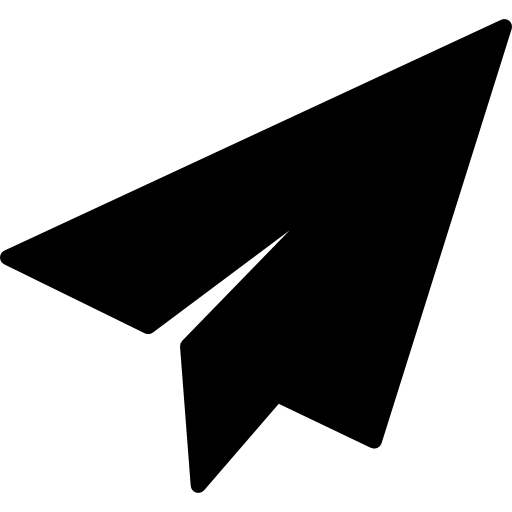
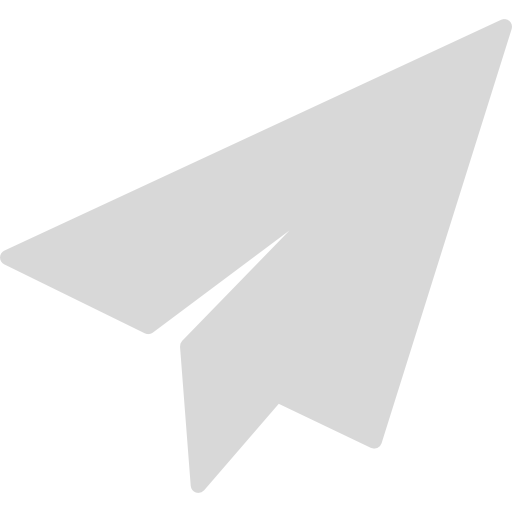
채팅 로그인한 회원만 이용가능하게 만들었습니다

diff --git a/src/main/resources/static/js/chat/chat.js b/src/main/resources/static/js/chat/chat.js
@@ -1,30 +1,41 @@
 document.addEventListener("DOMContentLoaded", function () {
 
+    let stompClient = null;
+    const clientId = Math.random().toString(36).substr(2, 9); // 랜덤한 고유 식별자 생성
+    const sender = document.getElementById("s-chat-sender").value;
+    const textarea = document.querySelector("#s-chat-input");
+    const image = document.querySelector("#s-chat-input-img");
+    image.src = "/sc/free-icon-sent-mail-71746.png";
+
     /** 모달 기능 */
      const modalButton = document.getElementById("s-chat-connect-button");
      const modal = document.querySelector(".s-chatbox");
+     const closeButton = document.querySelector(".s-chat-close");
      let isClicked = false; // 버튼 클릭 여부
-
 
      // 처음에 모달 컨텐츠를 숨김
      modal.style.display = "none";
 
      // 모달 버튼 클릭 시 모달 창 토글
      modalButton.addEventListener("click", function () {
-         modal.style.display = modal.style.display === "flex" ? "none" : "flex"; //
-         isClicked = !isClicked;
-         if (isClicked) {
-             modalButton.style.transform = "scale(0.9)";
-         } else {
-             modalButton.style.transform = "scale(1.0)";
+         if(sender === ''){
+         alert("채팅기능은 로그인하셔야 이용 하실 수 있습니다");
+         window.location.href='/member/qLoginForm';
+         }else{
+         modal.style.display =  "flex";
+         modalButton.style.transform = "scale(0)";
+         //버튼을 누르면 웹통신 시작
+         connect();
          }
      });
 
-    let stompClient = null;
-    const clientId = Math.random().toString(36).substr(2, 9); // 랜덤한 고유 식별자 생성
+     // x 버튼 클릭시 모달 닫기
+     closeButton.addEventListener("click", function () {
+         modal.style.display = "none";
+         modalButton.style.transform = "scale(1)";
+     });
 
-    connect();
-
+    //웹소켓 연결 (통신 코드)
     function connect() {
         const socket = new SockJS('/chat');
         stompClient = Stomp.over(socket);
@@ -36,13 +47,7 @@ document.addEventListener("DOMContentLoaded", function () {
             });
             stompClient.subscribe('/topic/messages', function (messages) {
                 const message = JSON.parse(messages.body);
-
-                //if문으로 내메세지인지 상대방메세지인지 가려낸다(clientId값으로)
-                if (message.clientId === clientId) {
-                    showMessages(message);
-                } else {
-                    showOtherMessages(message)
-                }
+                showMessages(message);
             });
         });
     }
@@ -50,28 +55,30 @@ document.addEventListener("DOMContentLoaded", function () {
     //메세지 서버로 보내기
     function sendMessage() {
         stompClient.send("/app/chatting", {}, JSON.stringify({
-            'sender': document.querySelector("#s-sender").value,
-            'content': document.querySelector("#s-sendText").value,
+            'sender': sender,
+            'content': document.querySelector("#s-chat-input").value,
             'clientId': clientId
         }));
     }
 
     //전송 버튼을 누르면 메세지가 보내지는 기능
-    document.querySelector("#s-submitBtn").addEventListener("click", function () {
+    document.querySelector("#s-chat-input-img").addEventListener("click", function () {
         if (stompClient) {
             sendMessage();
-            document.querySelector("#s-sendText").value = '';
+            document.querySelector("#s-chat-input").value = '';
+            textarea.style.height = '62px';
         } else {
             console.log("Stomp client not initialized yet.");
         }
     });
 
     //textarea에서 엔터키를 쳤을때 메세지가 보내지는 기능
-    document.querySelector('#s-sendText').addEventListener('keyup', (e) => {
+    document.querySelector('#s-chat-input').addEventListener('keyup', (e) => {
         if (e.keyCode === 13) {
             if (stompClient) {
                 sendMessage();
-                document.querySelector("#s-sendText").value = '';
+                document.querySelector("#s-chat-input").value = '';
+                textarea.style.height = '62px';
             } else {
                 console.log("Stomp client not initialized yet.");
             }
@@ -81,59 +88,71 @@ document.addEventListener("DOMContentLoaded", function () {
 
     //내 메세지 보기 (HTML에 태그랑 클래스이름 넣어주고 내용 넣어주는 코드)
     function showMessages(message) {
-        const chatTextBox = document.querySelector(".s-chatTextBox");
+        const chatTextBox = document.querySelector(".s-chat-textbox");
 
         const messageBlock = document.createElement("div");
-        messageBlock.className = "s-my-profile";
+        messageBlock.className = "s-chat-message";
 
-        const nicknameAndText = document.createElement("div");
-        nicknameAndText.className = "s-nicknameAndText s-my-message";
+        const messageInfo = document.createElement("p");
+        messageInfo.className = "s-chat-info";
 
-        const myText = document.createElement("div");
-        myText.className = "s-my-text";
-        myText.textContent = message.content;
+        const messageNickname = document.createElement("span");
 
-        nicknameAndText.appendChild(myText);
-        messageBlock.appendChild(nicknameAndText);
+        //이메일에서 아이디값만 추출
+        messageNickname.textContent = sender.split("@")[0];
+        const messageTime = document.createElement("span");
+
+        messageNickname.className = "s-chat-nickname";
+
+        messageTime.className = "s-chat-time";
+        messageTime.textContent = sendMessageCurrentTime();
+
+        const messageText = document.createElement("p");
+        messageText.className = "s-chat-text";
+        messageText.textContent = message.content;
+
+        messageInfo.appendChild(messageNickname);
+        messageInfo.appendChild(messageTime);
+
+        messageBlock.appendChild(messageInfo);
+        messageBlock.appendChild(messageText);
 
         chatTextBox.appendChild(messageBlock);
     }
 
-    //상대방 메세지 보기 (HTML에 태그랑 클래스이름 넣어주고 내용 넣어주는 코드)
-    function showOtherMessages(message) {
-        const chatTextBox = document.querySelector(".s-chatTextBox");
+//    //현재 접속자 몇명인지 HTML에 작성해주는 코드
+//    function updateConnectedClientsUI(count) {
+//            const connectedClientsElement = document.getElementById("s-connectedClients");
+//            connectedClientsElement.textContent = count;
+//    }
 
-        const messageBlock = document.createElement("div");
-        messageBlock.className = "s-others-profile";
+    //시간출력 코드
+    function sendMessageCurrentTime() {
+      let now = new Date();
+      let hours = now.getHours();
+      let minutes = now.getMinutes();
+      let ampm = hours >= 12 ? "PM" : "AM";
 
-        const profileImage = document.createElement("img");
-        profileImage.src = "sc/chattinglogo.png";
-        profileImage.alt = "";
+      hours = hours % 12;
+      hours = hours ? hours : 12; // 0시일 경우 12시로 변경
 
-        const nicknameAndText = document.createElement("div");
-        nicknameAndText.className = "s-nicknameAndText";
+      minutes = minutes < 10 ? "0" + minutes : minutes; // 분이 10 미만일 경우 앞에 0 추가
 
-        const nicknameSpan = document.createElement("span");
-        nicknameSpan.id = "s-nickname";
-        nicknameSpan.textContent = message.sender;
-
-        const othersText = document.createElement("div");
-        othersText.className = "s-others-text";
-        othersText.textContent = message.content;
-
-        nicknameAndText.appendChild(nicknameSpan);
-        nicknameAndText.appendChild(othersText);
-
-        messageBlock.appendChild(profileImage);
-        messageBlock.appendChild(nicknameAndText);
-
-        chatTextBox.appendChild(messageBlock);
+      let currentTime = hours + ":" + minutes + " " + ampm;
+      return currentTime;
     }
 
-    //현재 접속자 몇명인지 HTML에 작성해주는 코드
-    function updateConnectedClientsUI(count) {
-            const connectedClientsElement = document.getElementById("s-connectedClients");
-            connectedClientsElement.textContent = count;
-    }
+
+//메세지보낼때 길이 반응형
+//send 아이콘 이미지 교체
+textarea.addEventListener("input", function () {
+ this.style.height = `${this.scrollHeight}px`;
+ image.src = "/sc/free-icon-sent-blue-mail-71746.png";
+
+});
+
+textarea.addEventListener("blur", function () {
+ image.src = "/sc/free-icon-sent-mail-71746.png";
+});
 
 });

diff --git a/src/main/resources/templates/fragments/chat.html b/src/main/resources/templates/fragments/chat.html
@@ -15,33 +15,21 @@
         </div>
 
         <div class="s-chat-textbox">
-            <div class="s-chat-message">
-                <p class="s-chat-nfo">
-                    <span class="s-chat-nickname">김기무</span>
-                    <span class="s-chat-time">11:47 PM</span>
-                </p>
-                <p class="s-chat-text">
-                    안녕하세요 반갑습니다 저 오늘 이거 처음하는데 이렇게 하는거 맞나요??
-                </p>
-            </div>
-        </div>
 
+        </div>
 
         <div class="s-chat-sendbox">
             <textarea name="" id="s-chat-input" cols="24"></textarea>
-            <img src="sc/free-icon-sent-mail-71746.png" alt="">
+            <input id="s-chat-sender" type="hidden" th:value="${userEmail}">
+            <img id="s-chat-input-img" src="" alt="">
             <script>
-                const textarea = document.querySelector("#s-chat-input");
 
-                textarea.addEventListener("input", function () {
-                    this.style.height = "24px";
-                    this.style.height = `${this.scrollHeight}px`;
-                });
+
+
             </script>
         </div>
 
     </div>
-
 
 </div>
 

diff --git a/src/main/resources/static/css/chat.css b/src/main/resources/static/css/chat.css
@@ -26,7 +26,6 @@
     flex-direction: column;
     border: 1px solid #d8d8d8;
     border-radius: 5px;
-    box-shadow: 1px 1px 10px 1px #b6b6b6;
     background-color: #fff;
 }
 
@@ -67,6 +66,7 @@
 
 .s-chat-textbox {
     height: 425px;
+    width:100%
     margin: 5px;
     overflow-y: auto;
 }
@@ -76,6 +76,7 @@
     font-family: 'Noto Sans KR', sans-serif;
     background-color: #fff;
     border-bottom: 1px solid #d8d8d8;
+    flex-wrap : wrap;
 }
 
 .s-chat-nickname {
@@ -101,16 +102,11 @@
     position: relative;
 }
 
-.s-chat-sendbox img{
+.s-chat-sendbox #s-chat-input-img{
     position: absolute;
     right: 12px;
     bottom: 4px;
     height: 20px;
-    filter: invert(92%) sepia(33%) saturate(171%) hue-rotate(185deg) brightness(97%) contrast(85%);
-}
-
-.s-chat-sendbox textarea:focus + img{
-    filter: invert(100%) sepia(96%) saturate(5772%) hue-rotate(75deg) brightness(81%) contrast(86%);
 }
 
 .s-chat-sendbox textarea {
@@ -121,7 +117,7 @@
     box-shadow: .5px 1px 5px .5px #d8d8d8;
     outline: none;
     resize: none;
-    height: 24px;
+    height: 62px;
     font-family: 'Noto Sans KR', sans-serif;
     font-size: 14px;
 }

diff --git a/src/main/resources/templates/fragments/header.html b/src/main/resources/templates/fragments/header.html
@@ -6,7 +6,9 @@
 
   <div class="n-header">
     <div class="n-header-left">
+      <a href="/">
       <img src="/sc/003.png" alt="">
+      </a>
       <ul class="n-header-list">
         <li>
           <a href="#">실거래가조회</a>
@@ -18,7 +20,7 @@
           <a href="#">청약정보</a>
         </li>
         <li>
-          <a href="#">부동산뉴스</a>
+          <a href="/news">부동산뉴스</a>
         </li>
         <li>
           <a href="#">커뮤니티</a>

diff --git a/src/main/resources/templates/fragments/layouts/include_footer_layout.html b/src/main/resources/templates/fragments/layouts/include_footer_layout.html
@@ -19,11 +19,13 @@
 
 
 	<th:block th:replace="~{fragments/header :: headerFragment}"></th:block>
-    <th:block layout:fragment="content">
-	</th:block>
+
+    <th:block layout:fragment="content"></th:block>
+
 	<div class="sticky-chat-modal">
 		<th:block th:replace="~{fragments/chat :: chatModalFragment}"></th:block>
 	</div>
+
 	<th:block th:replace="~{fragments/footer :: tFooter}"></th:block>
 
 

diff --git a/src/main/resources/templates/mainPage/mainPage.html b/src/main/resources/templates/mainPage/mainPage.html
@@ -49,7 +49,7 @@
 			</div>
 			커뮤니티
 		</a>
-		<a href="#">
+		<a href="/news">
 			<div class="r-button-menu-icon4">
 			</div>
 			부동산뉴스

diff --git a/src/main/java/com/ap4j/bma/controller/HomeController.java b/src/main/java/com/ap4j/bma/controller/HomeController.java
@@ -2,9 +2,15 @@ package com.ap4j.bma.controller;
 
 import lombok.extern.slf4j.Slf4j;
 import org.springframework.stereotype.Controller;
+import org.springframework.ui.Model;
 import org.springframework.web.bind.annotation.RequestMapping;
+import org.springframework.web.bind.annotation.SessionAttributes;
 import org.springframework.web.client.RestTemplate;
+import org.springframework.web.context.annotation.SessionScope;
 
+import javax.servlet.http.HttpSession;
+
+@SessionAttributes("userEmail")
 @Slf4j
 @Controller
 public class HomeController {
